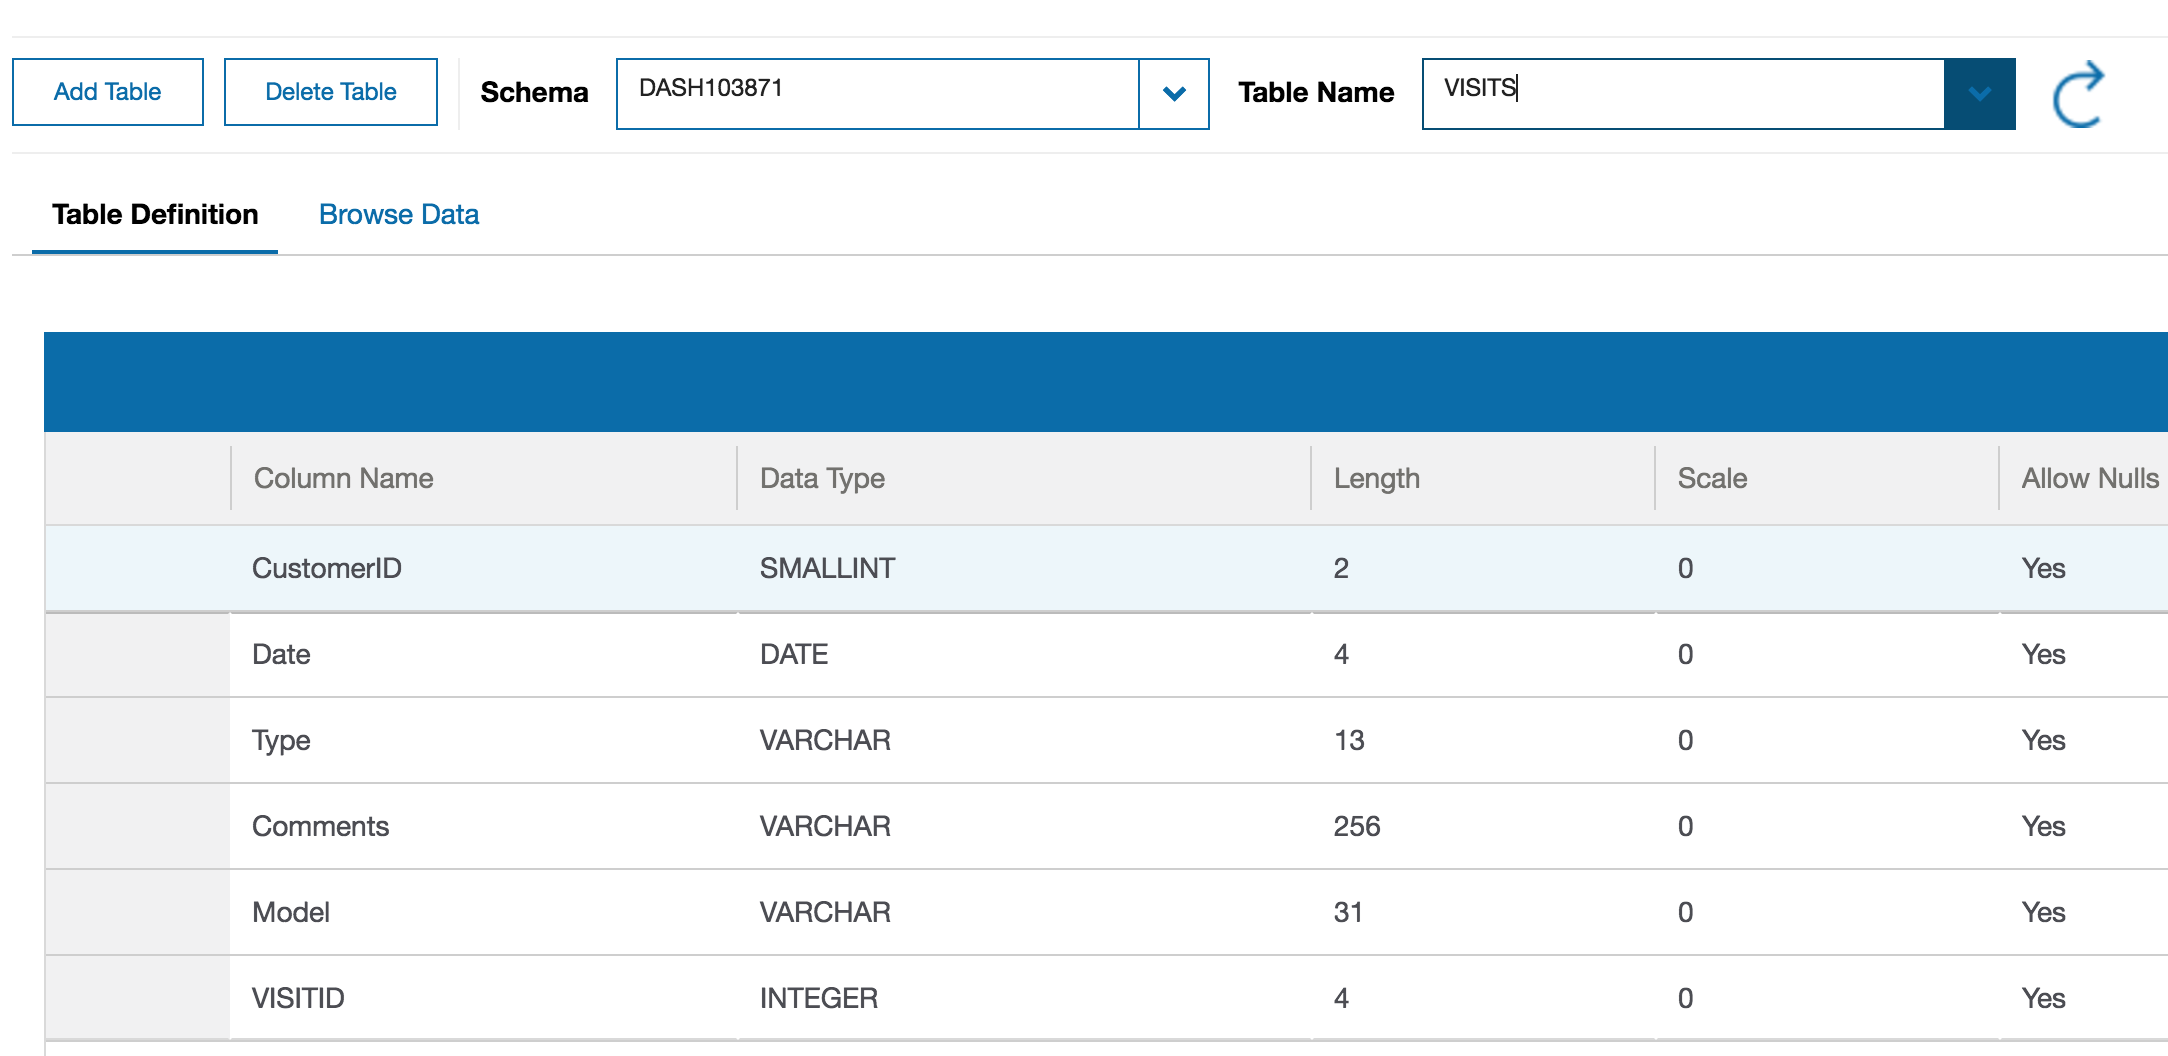
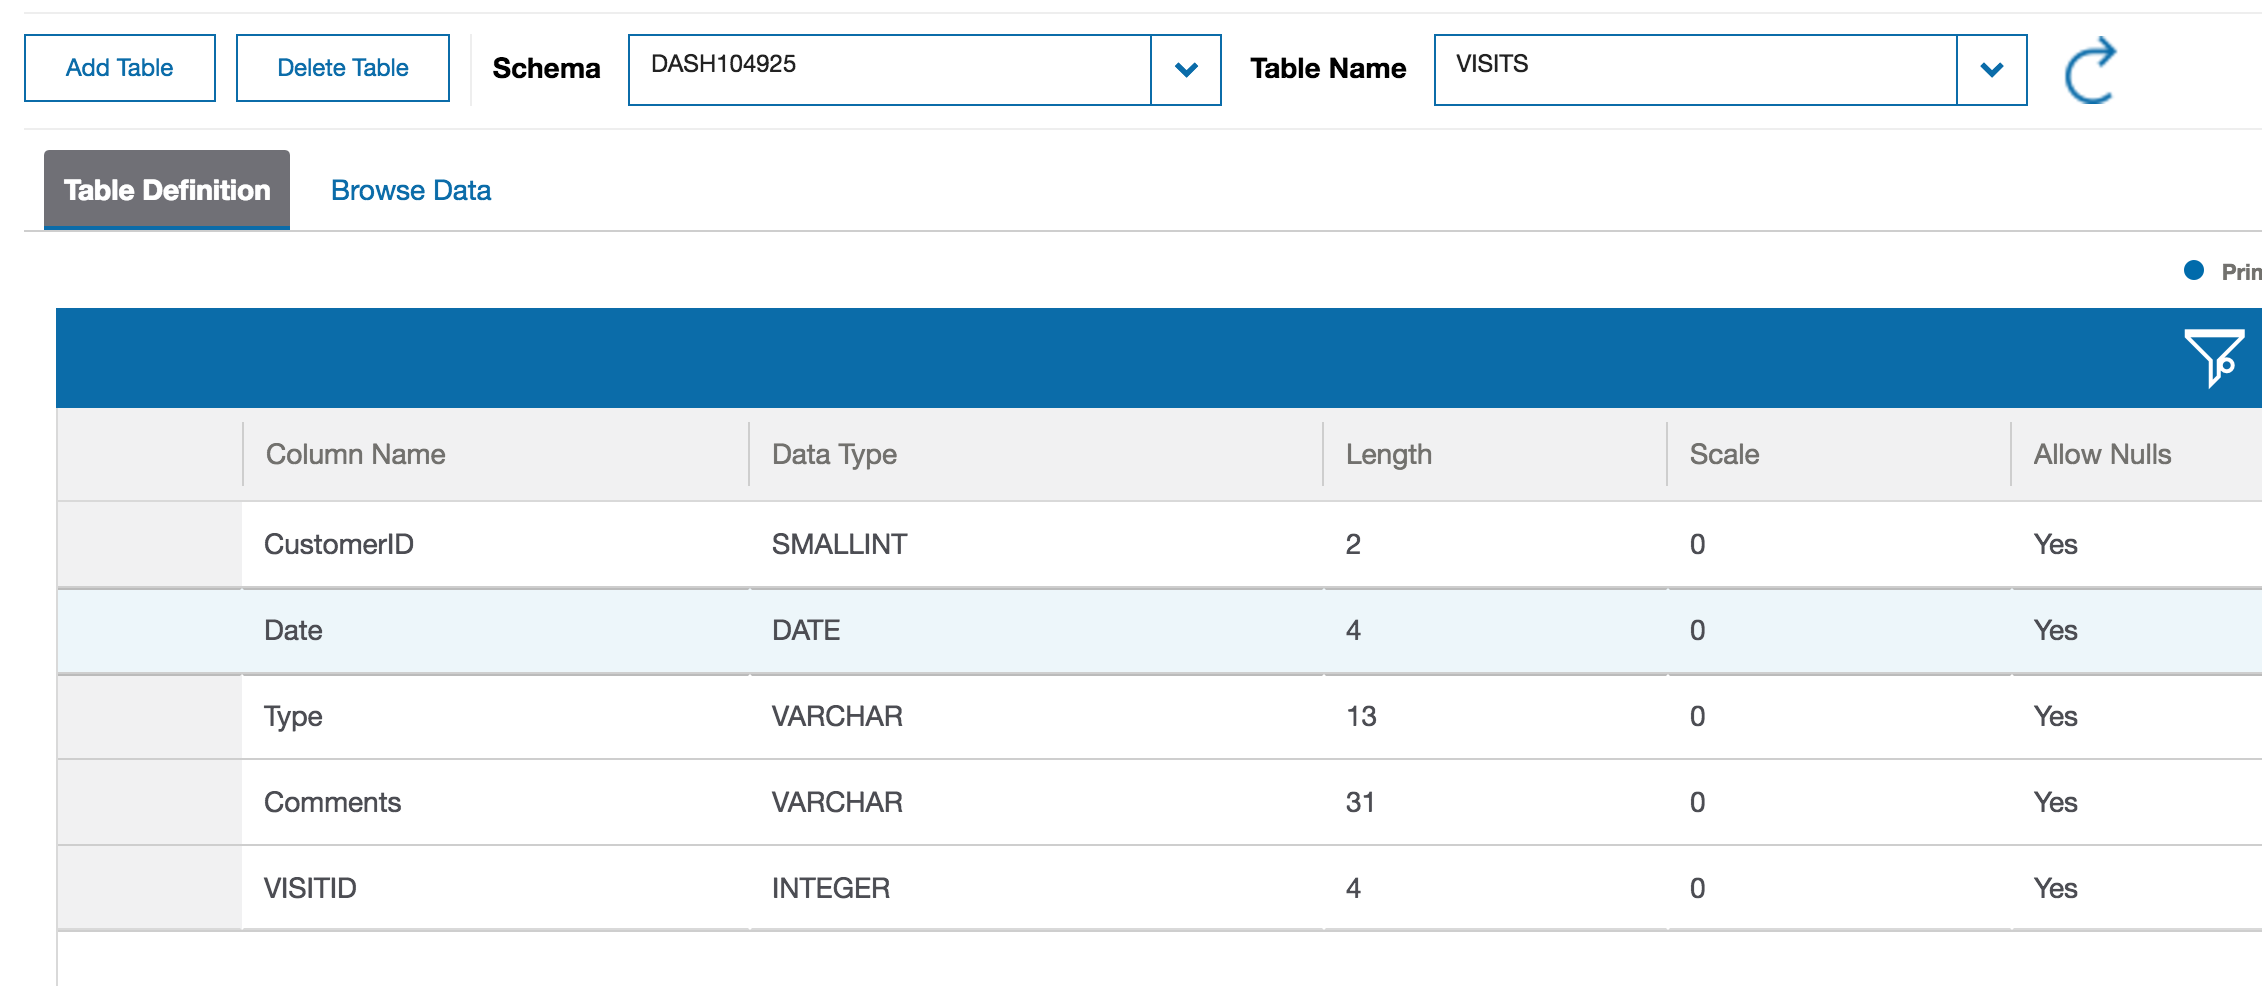
CRM lab but cannot run curl commands??

diff --git a/Lab/Contents/NodeJS-CRM-OnPrem/Readme.md b/Lab/Contents/NodeJS-CRM-OnPrem/Readme.md
@@ -1,44 +1,71 @@
-#  OnPrem - CRM Mockup
+#  OnPrem - NodeJS Mock CRM
 
-
+This CRM is a NodeJS mockup of a potential on-premise CRM for demo purposes.
 
 ## What you will learn on this guide
 
- - How to run the Mockup CRM on your Machine
  - How to setup DashDB config on CRM Mockup
- - How to test CRM Mockup
+ - How to run the Mockup CRM on your Machine
+ - How to test CRM
 
 ## Requirement of this guide
 
 - [DashDB Setup on Bluemix](/Lab/Contents/MFP-DashDB-Adapter/Readme.md)
 
-
 ## Guide
 
-```
-5. CRM
-    1. npm install + run node app locally (behind firewall)
-    2. Show common rest api urls (like get all customers)
-    3. update DashDB config
-    4. test CRM to create new customer/visit (curl/postman)
+### Configure DashDB CRM
 
-
-*Notes:* 
-1 - got the CRM folder    
-2 - npm install 
-3 - update DashDB properties  (which file)
-4 - run the CRM?
-5 - Testing the CRM:
-- CURL to create a customer
-- CURL to create a visit
-- CURL to list a cusotmers
-- CURL to list a visits
-
-payloads:
-- sample payload
-
+1 - Go to dasdhdb-credentials.json
+```bash
+cd MotoCorpService/CRM
+open dashdb-credentials.json
 ```
 
+2 - Set DashDB credentials as found in your Bluemix instance
+![dashdb-credentials](dashdb-credentials.png)
+
+### Running the NodeJS CRM locally
+
+1 - Install any dependencies
+```bash
+npm install
+````
+
+2 - Run the CRM locally
+```bash
+node app.js
+````
+
+> To use SecureGateway later in the lab, it is recommended to run the CRM behind a firewall.
+
+### Testing the CRM
+
+In the command line, you can test the CRM.
+
+1 - To create a customer
+
+```bash
+curl -X PUT -H "Content-Type: application/json" -d '{ "name": "New Name - B", "LicensePlate": "ABC-123", "Make":"Honda", "Model":"CRV", "VIN":"12345667" }' "http://localhost:8000/customers/" -vv
+```
+
+2 - To create a visit
+
+```bash
+curl -X POST -H "Content-Type: application/json" -d '{  "date": "2016-06-23",  "type": "oil visit",  "comment": "hello this is a comment"}' "http://localhost:8000/customers/1/visits" -vv
+```
+
+3 - To list all customers
+
+```bash
+curl -X GET http://localhost:8000/customers -vv
+```
+
+4 - To list all visits
+
+```bash
+curl -X GET http://localhost:8000/customers/1/visits/ -vv
+```
 
 ## Next guide
 

diff --git a/Lab/Contents/MFP-DashDB-Adapter/Readme.md b/Lab/Contents/MFP-DashDB-Adapter/Readme.md
@@ -45,7 +45,6 @@ CREATE TABLE VISITS (
  "Date" DATE,
  "Type" VARCHAR(13),
  "Comments" VARCHAR(256),
- "Model" VARCHAR(31),
  "VISITID" INTEGER
 );
 ```
